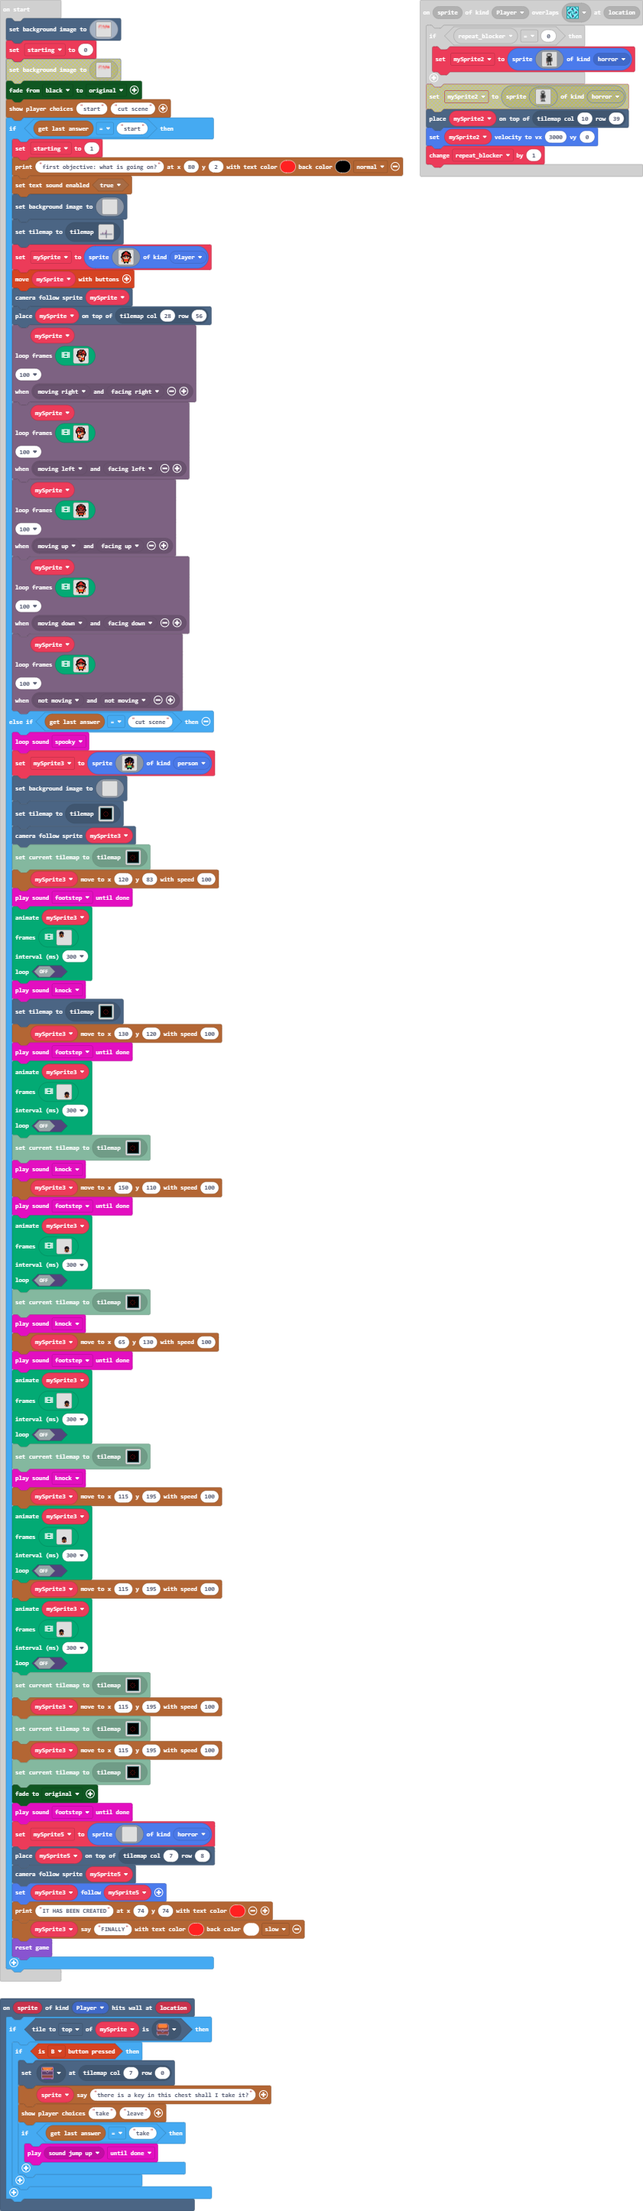
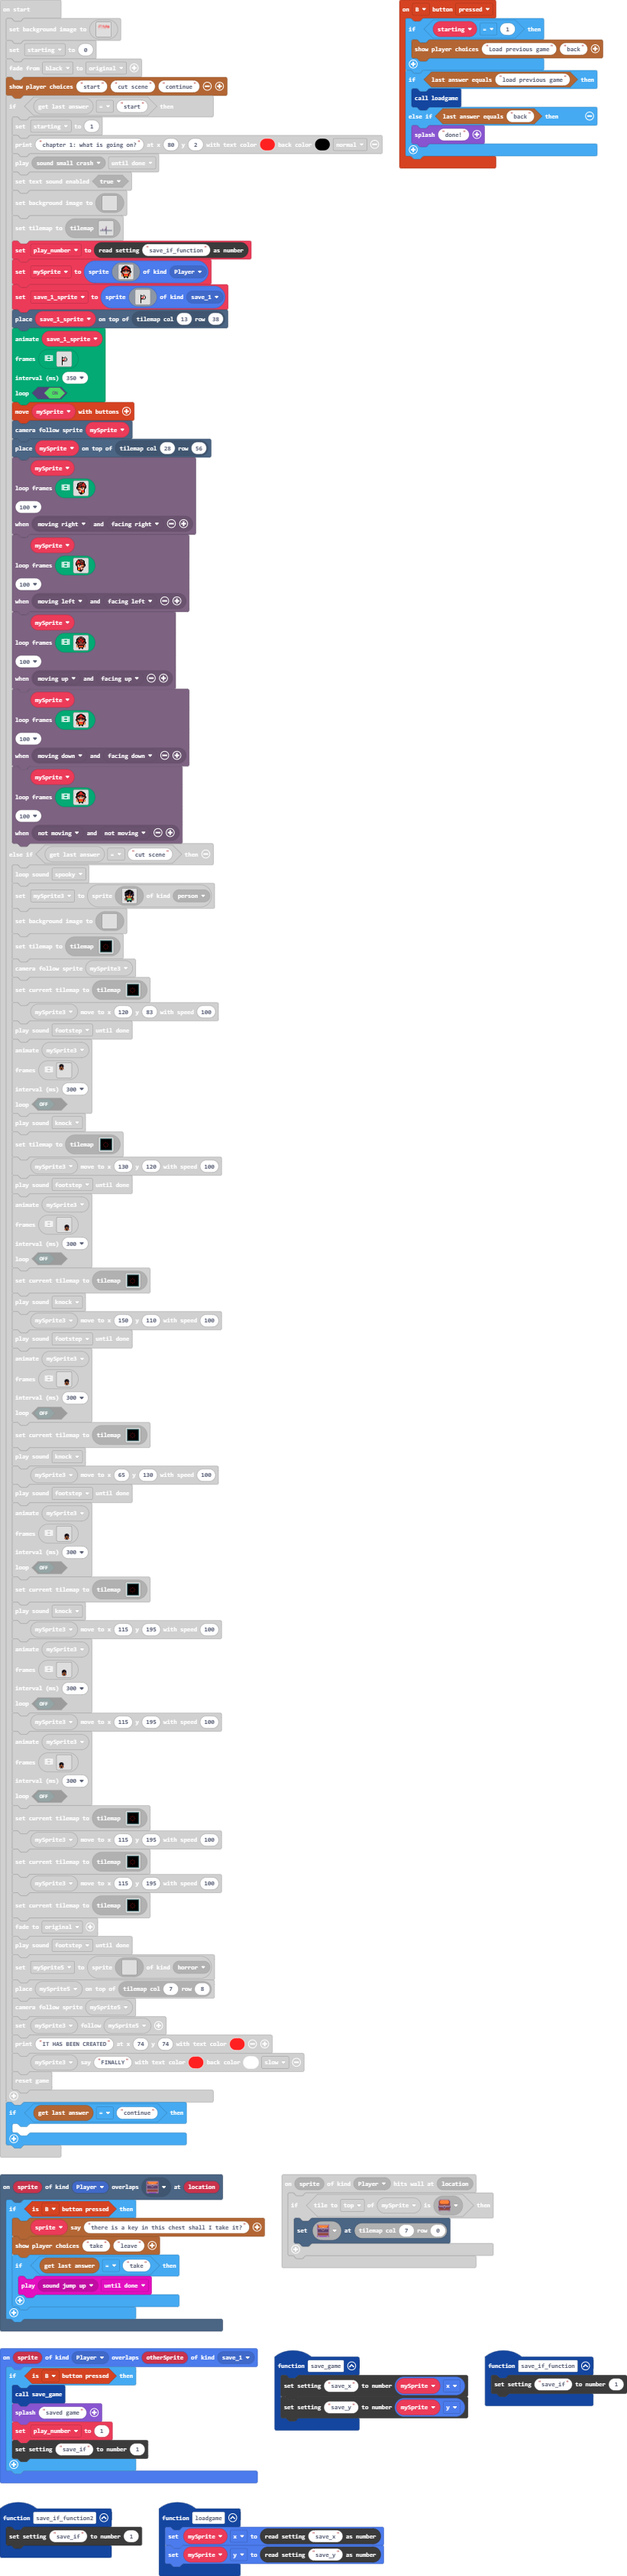
Added save game functions

Changed region(s): [[0.0, 0.0, 1.0, 1.0]]

diff --git a/main.ts b/main.ts
@@ -3,22 +3,26 @@ namespace SpriteKind {
     export const Projectile2 = SpriteKind.create()
     export const horror = SpriteKind.create()
     export const person = SpriteKind.create()
+    export const save_1 = SpriteKind.create()
 }
 scene.onHitWall(SpriteKind.Player, function (sprite, location) {
     if (mySprite.tileKindAt(TileDirection.Top, sprites.dungeon.chestClosed)) {
-        if (controller.B.isPressed()) {
-            tiles.setTileAt(tiles.getTileLocation(7, 0), assets.tile`myTile33`)
-            story.spriteSayText(sprite, "there is a key in this chest shall I take it?")
-            story.showPlayerChoices("take", "leave")
-            if (story.getLastAnswer() == "take") {
-                music.play(music.melodyPlayable(music.jumpUp), music.PlaybackMode.UntilDone)
-            }
-        }
+        tiles.setTileAt(tiles.getTileLocation(7, 0), assets.tile`myTile33`)
     }
 })
 controller.up.onEvent(ControllerButtonEvent.Pressed, function () {
     if (starting == 1) {
         characterAnimations.setCharacterState(mySprite, characterAnimations.rule(Predicate.FacingUp, Predicate.MovingUp))
+    }
+})
+controller.B.onEvent(ControllerButtonEvent.Pressed, function () {
+    if (starting == 1) {
+        story.showPlayerChoices("Load previous game", "back")
+    }
+    if (story.checkLastAnswer("load previous game")) {
+        loadgame()
+    } else if (story.checkLastAnswer("back")) {
+        game.splash("done!")
     }
 })
 controller.A.onEvent(ControllerButtonEvent.Pressed, function () {
@@ -38,6 +42,18 @@ controller.down.onEvent(ControllerButtonEvent.Released, function () {
         characterAnimations.setCharacterState(mySprite, characterAnimations.rule(Predicate.NotMoving))
     }
 })
+function save_if_function2 () {
+    blockSettings.writeNumber("save_if", 1)
+}
+scene.onOverlapTile(SpriteKind.Player, assets.tile`myTile33`, function (sprite, location) {
+    if (controller.B.isPressed()) {
+        story.spriteSayText(sprite, "there is a key in this chest shall I take it?")
+        story.showPlayerChoices("take", "leave")
+        if (story.getLastAnswer() == "take") {
+            music.play(music.melodyPlayable(music.jumpUp), music.PlaybackMode.UntilDone)
+        }
+    }
+})
 controller.left.onEvent(ControllerButtonEvent.Pressed, function () {
     characterAnimations.setCharacterState(mySprite, characterAnimations.rule(Predicate.FacingLeft, Predicate.MovingLeft))
 })
@@ -50,6 +66,10 @@ controller.left.onEvent(ControllerButtonEvent.Released, function () {
 scene.onHitWall(SpriteKind.horror, function (sprite, location) {
     sprite.destroy()
 })
+function save_game () {
+    blockSettings.writeNumber("save_x", mySprite.x)
+    blockSettings.writeNumber("save_y", mySprite.y)
+}
 controller.right.onEvent(ControllerButtonEvent.Pressed, function () {
     characterAnimations.setCharacterState(mySprite, characterAnimations.rule(Predicate.FacingRight, Predicate.MovingRight))
 })
@@ -63,6 +83,21 @@ controller.down.onEvent(ControllerButtonEvent.Pressed, function () {
         characterAnimations.setCharacterState(mySprite, characterAnimations.rule(Predicate.FacingDown, Predicate.MovingDown))
     }
 })
+function save_if_function () {
+    blockSettings.writeNumber("save_if", 1)
+}
+sprites.onOverlap(SpriteKind.Player, SpriteKind.save_1, function (sprite, otherSprite) {
+    if (controller.B.isPressed()) {
+        save_game()
+        game.splash("saved game")
+        play_number = 1
+        blockSettings.writeNumber("save_if", 1)
+    }
+})
+function loadgame () {
+    mySprite.x = blockSettings.readNumber("save_x")
+    mySprite.y = blockSettings.readNumber("save_y")
+}
 scene.onOverlapTile(SpriteKind.Player, sprites.dungeon.collectibleInsignia, function (sprite, location) {
     if (repeat_blocker == 0) {
         mySprite2 = sprites.create(img`
@@ -110,7 +145,9 @@ let mySprite2: Sprite = null
 let repeat_blocker = 0
 let mySprite5: Sprite = null
 let mySprite3: Sprite = null
+let save_1_sprite: Sprite = null
 let mySprite: Sprite = null
+let play_number = 0
 let starting = 0
 scene.setBackgroundImage(img`
     ..........................222...................................................................................................................................
@@ -236,7 +273,7 @@ scene.setBackgroundImage(img`
     `)
 starting = 0
 color.startFade(color.Black, color.originalPalette)
-story.showPlayerChoices("start", "cut scene")
+story.showPlayerChoices("start", "cut scene", "continue")
 if (story.getLastAnswer() == "start") {
     starting = 1
     story.printText("chapter 1: what is going on?", 80, 2, 2, 15, story.TextSpeed.Normal)
@@ -365,6 +402,7 @@ if (story.getLastAnswer() == "start") {
         ................................................................................................................................................................
         `)
     tiles.setCurrentTilemap(tilemap`level3`)
+    play_number = blockSettings.readNumber("save_if_function")
     mySprite = sprites.create(img`
         . . . . . . f f f f . . . . . . 
         . . . . f f f 2 2 f f f . . . . 
@@ -383,6 +421,99 @@ if (story.getLastAnswer() == "start") {
         . . . . . f f f f f f . . . . . 
         . . . . . f f . . f f . . . . . 
         `, SpriteKind.Player)
+    save_1_sprite = sprites.create(img`
+        . . . . . . . . . . . . . . . . 
+        . . . . . . . . . . . . . . . . 
+        . . . . . . . . . . . . . . . . 
+        . . . . . . . . . . . . . . . . 
+        . . . . . . . . . . . . . . . . 
+        . . . . . f . . . f . . . . . . 
+        . . . . . f f f f 1 f . . . . . 
+        . . . . . f 1 1 1 2 1 f . . . . 
+        . . . . . f 1 2 2 2 1 f . . . . 
+        . . . . . f 2 2 1 1 1 f . . . . 
+        . . . . . f f f f f f . . . . . 
+        . . . . . f . . . . . . . . . . 
+        . . . . . f . . . . . . . . . . 
+        . . . . . f . . . . . . . . . . 
+        . . . . . f . . . . . . . . . . 
+        . . . . . f . . . . . . . . . . 
+        `, SpriteKind.save_1)
+    tiles.placeOnTile(save_1_sprite, tiles.getTileLocation(13, 38))
+    animation.runImageAnimation(
+    save_1_sprite,
+    [img`
+        . . . . . . . . . . . . . . . . 
+        . . . . . . . . . . . . . . . . 
+        . . . . . . . . . . . . . . . . 
+        . . . . . . . . . . . . . . . . 
+        . . . . . . . . . . . . . . . . 
+        . . . . . f . . . f . . . . . . 
+        . . . . . f f f f 1 f . . . . . 
+        . . . . . f 1 1 1 2 1 f . . . . 
+        . . . . . f 1 2 2 2 1 f . . . . 
+        . . . . . f 2 2 1 1 1 f . . . . 
+        . . . . . f f f f f f . . . . . 
+        . . . . . f . . . . . . . . . . 
+        . . . . . f . . . . . . . . . . 
+        . . . . . f . . . . . . . . . . 
+        . . . . . f . . . . . . . . . . 
+        . . . . . f . . . . . . . . . . 
+        `,img`
+        . . . . . . . . . . . . . . . . 
+        . . . . . . . . . . . . . . . . 
+        . . . . . . . . . . . . . . . . 
+        . . . . . . . . . . . . . . . . 
+        . . . . . . . . . . . . . . . . 
+        . . . . . f . . . . . . . . . . 
+        . . . . . f f f f f . . . . . . 
+        . . . . . f 1 1 1 1 f . . . . . 
+        . . . . . f 1 2 2 2 1 f . . . . 
+        . . . . . f 2 2 1 2 1 f . . . . 
+        . . . . . f f f f 1 1 f . . . . 
+        . . . . . f . . . f f . . . . . 
+        . . . . . f . . . . . . . . . . 
+        . . . . . f . . . . . . . . . . 
+        . . . . . f . . . . . . . . . . 
+        . . . . . f . . . . . . . . . . 
+        `,img`
+        . . . . . . . . . . . . . . . . 
+        . . . . . . . . . . . . . . . . 
+        . . . . . . . . . . . . . . . . 
+        . . . . . . . . . . . . . . . . 
+        . . . . . . . . . . . . . . . . 
+        . . . . . f . . . f . . . . . . 
+        . . . . . f f . . 1 f . . . . . 
+        . . . . . f 1 f f 2 1 f . . . . 
+        . . . . . f 1 1 1 2 1 f . . . . 
+        . . . . . f 2 2 2 1 1 f . . . . 
+        . . . . . f f 2 1 f f . . . . . 
+        . . . . . f . f f . . . . . . . 
+        . . . . . f . . . . . . . . . . 
+        . . . . . f . . . . . . . . . . 
+        . . . . . f . . . . . . . . . . 
+        . . . . . f . . . . . . . . . . 
+        `,img`
+        . . . . . . . . . . . . . . . . 
+        . . . . . . . . . . . . . . . . 
+        . . . . . . . . . . . . . . . . 
+        . . . . . . . . . . . . . . . . 
+        . . . . . . . . . . . . . . . . 
+        . . . . . f . f f . . . . . . . 
+        . . . . . f f 1 1 f . . . . . . 
+        . . . . . f 1 2 2 1 f . . . . . 
+        . . . . . f 1 2 1 2 1 f . . . . 
+        . . . . . f 2 f f 2 1 f . . . . 
+        . . . . . f f . . 1 1 f . . . . 
+        . . . . . f . . . f f . . . . . 
+        . . . . . f . . . . . . . . . . 
+        . . . . . f . . . . . . . . . . 
+        . . . . . f . . . . . . . . . . 
+        . . . . . f . . . . . . . . . . 
+        `],
+    350,
+    true
+    )
     controller.moveSprite(mySprite)
     scene.cameraFollowSprite(mySprite)
     tiles.placeOnTile(mySprite, tiles.getTileLocation(28, 56))
@@ -1529,4 +1660,7 @@ if (story.getLastAnswer() == "start") {
     story.printText("IT HAS BEEN CREATED", 74, 74, 2)
     story.spriteSayText(mySprite3, "FINALLY", 2, 1, story.TextSpeed.Slow)
     game.reset()
+}
+if (story.getLastAnswer() == "continue") {
+	
 }

diff --git a/tilemap.g.ts b/tilemap.g.ts
@@ -731,6 +731,25 @@ namespace myTiles {
 . . . . . . . . . . . . . . . . 
 . . . . . . . . . . . . . . . . 
 `, [myTiles.transparency16], TileScale.Sixteen);
+            case "level34":
+            case "level34":return tiles.createTilemap(hex`1000100000000000000000000000000000000000000000000000000000000000000000000000000000000000000000000000000000000000000000000000000000000000000000000000000000000000000000000000000000000000000000000000000000000000000000000000000000000000000000000000000000000000000000000000000000000000000000000000000000000000000000000000000000000000000000000000000000000000000000000000000000000000000000000000000000000000000000000000000000000000000000000000000000000000000000000000000000000000000000000000000000000000000000000000000000000000`, img`
+. . . . . . . . . . . . . . . . 
+. . . . . . . . . . . . . . . . 
+. . . . . . . . . . . . . . . . 
+. . . . . . . . . . . . . . . . 
+. . . . . . . . . . . . . . . . 
+. . . . . . . . . . . . . . . . 
+. . . . . . . . . . . . . . . . 
+. . . . . . . . . . . . . . . . 
+. . . . . . . . . . . . . . . . 
+. . . . . . . . . . . . . . . . 
+. . . . . . . . . . . . . . . . 
+. . . . . . . . . . . . . . . . 
+. . . . . . . . . . . . . . . . 
+. . . . . . . . . . . . . . . . 
+. . . . . . . . . . . . . . . . 
+. . . . . . . . . . . . . . . . 
+`, [myTiles.transparency16], TileScale.Sixteen);
         }
         return null;
     })
